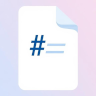
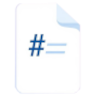
version 1.1
- Icon Transparency
- Fixed Title encoding

diff --git a/background.js b/background.js
@@ -48,8 +48,13 @@ browser.browserAction.onClicked.addListener(async (tab) => {
         // Get the markdown content
         let markdown = await response.text();
 
+        // Decode the title first
+        const decodedPageTitle = decodeURIComponent(pageTitle);
+
+        console.log('Decoded title:', decodedPageTitle);
+
         // Add the title and blank line at the start of the content
-        markdown = `# ${pageTitle}\n\n${markdown}`;
+        markdown = `# ${decodedPageTitle}\n\n${markdown}`;
 
         // Create a blob from the markdown content
         const blob = new Blob([markdown], { type: 'text/markdown' });
